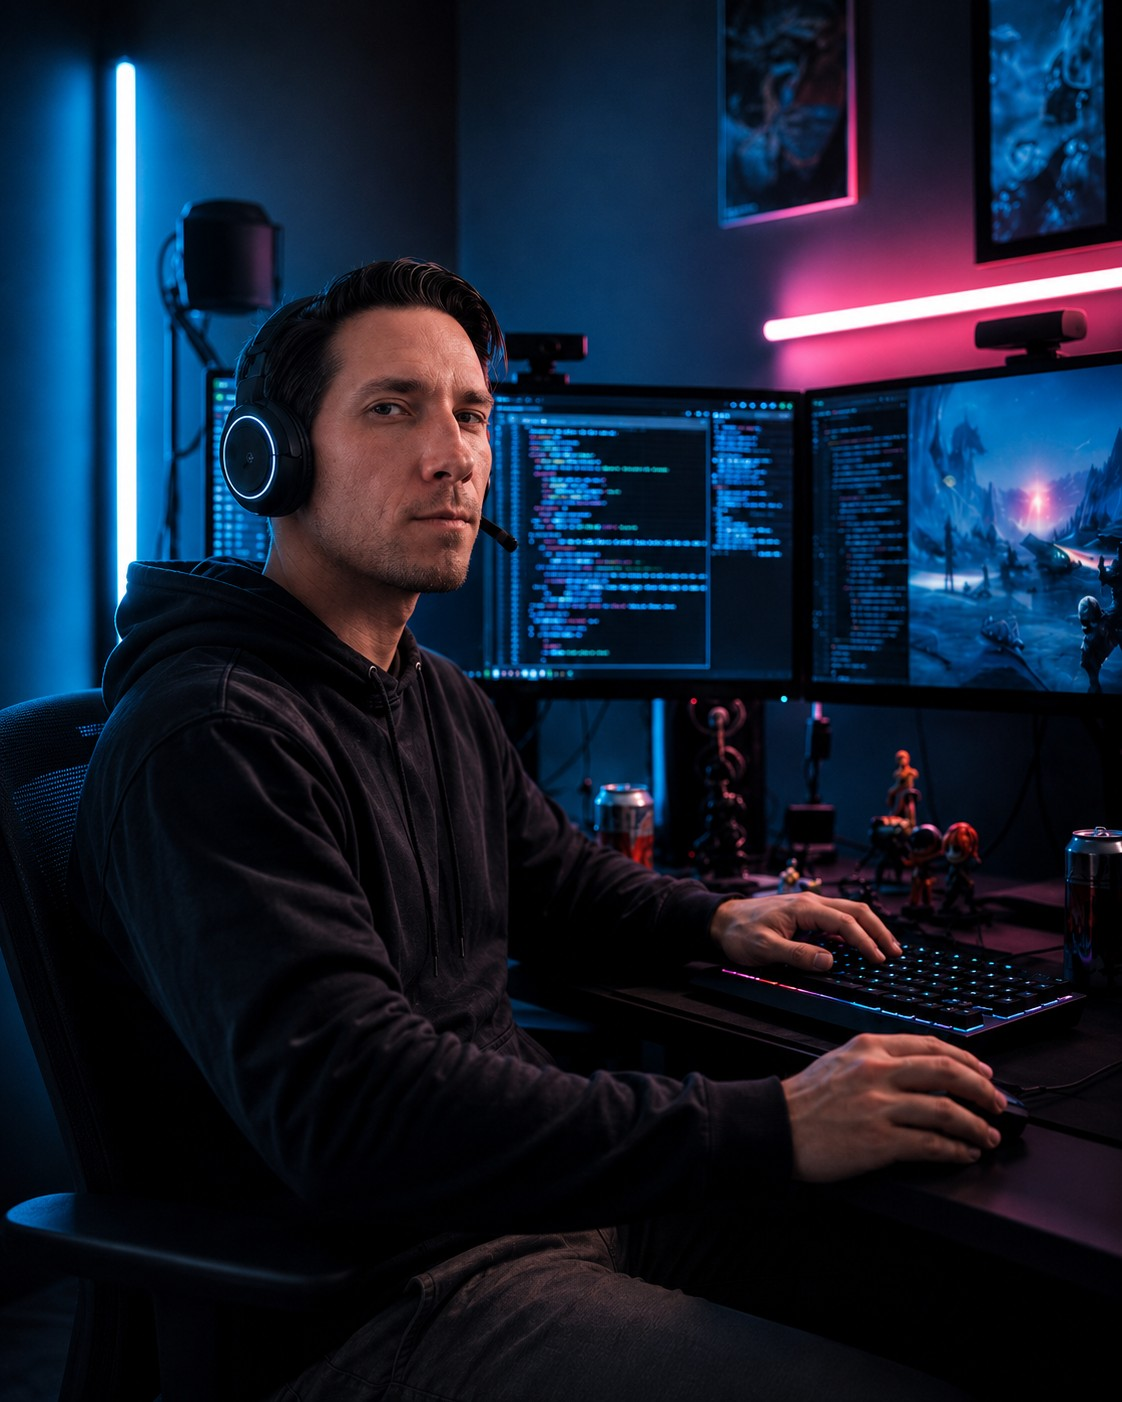
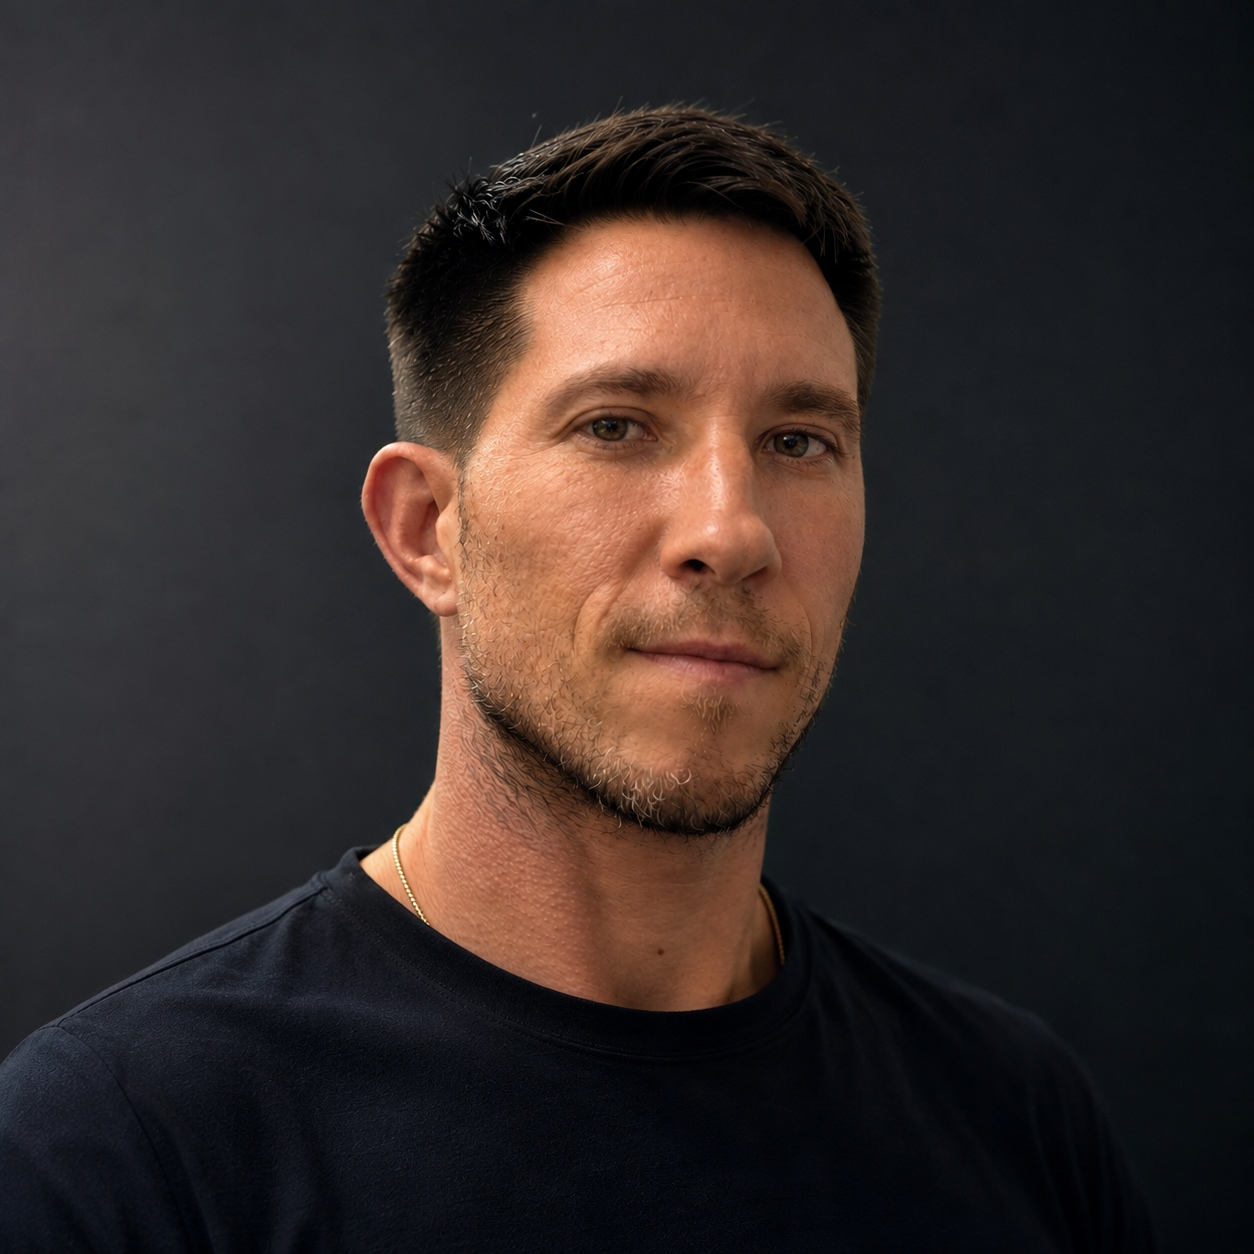
update portfolio images and copy

diff --git a/src/data/projects.ts b/src/data/projects.ts
@@ -21,6 +21,7 @@ export interface ProjectCaseStudy {
   uxNotes: string[];
   details: string[];
   outcome: string;
+  futureAiDirection?: string;
   nextSteps: string[];
   videoSlot?: {
     path: string;
@@ -96,14 +97,14 @@ export const projects: ProjectCaseStudy[] = [
     slug: 'fluent',
     id: 2,
     title: 'Fluent',
-    subtitle: 'Local Speech Recognition and Pronunciation Analysis',
+    subtitle: 'Local Whisper and Pronunciation Practice',
     shortDescription:
-      'An offline-first speech practice experience focused on fast microphone capture, clear pronunciation feedback, and privacy-friendly processing.',
+      'An offline-first speech practice experience built around local Whisper transcription, microphone capture, transcript-based pronunciation feedback, and privacy-first processing.',
     heroDescription:
-      'Fluent is the most UX-heavy of the three main projects. It focuses on local speech recognition, pronunciation analysis, and a practice flow that feels calm, fast, and trustworthy.',
+      'Fluent is the most UX-heavy of the three main projects. It uses local Whisper speech recognition and transcript-based practice analysis in a flow designed to feel calm, fast, and trustworthy.',
     summary:
-      'A private, offline speech-practice app that uses local Whisper transcription and honest scoring to coach pronunciation without cloud dependency.',
-    stack: ['Unity', 'Whisper', 'C#', 'ScriptableObjects', 'Scene-owned UI'],
+      'A privacy-first speech-practice app that runs Whisper transcription locally and does not require a cloud speech-recognition service.',
+    stack: ['Unity', 'Whisper', 'Local AI', 'C#', 'ScriptableObjects', 'Scene-owned UI'],
     accent: '#FF00A0',
     heroImage: '/images/case-studies/fluent/hero.jpg',
     gallery: [
@@ -112,27 +113,28 @@ export const projects: ProjectCaseStudy[] = [
       '/images/case-studies/fluent/gallery-2.jpg',
       '/images/case-studies/fluent/gallery-3.jpg',
       '/images/case-studies/fluent/gallery-4.jpg',
+      '/images/case-studies/fluent/gallery-5.jpg',
     ],
-    tags: ['Speech', 'UX', 'Local', 'Analysis'],
+    tags: ['Speech', 'Whisper', 'Local AI', 'Privacy'],
     quickFacts: [
-      { label: 'Focus', value: 'Local speech analysis loop' },
-      { label: 'System', value: 'Microphone capture and response states' },
-      { label: 'UX', value: 'Low-friction practice and clear cues' },
+      { label: 'Focus', value: 'Local transcription and pronunciation practice' },
+      { label: 'System', value: 'On-device Whisper with microphone capture' },
+      { label: 'Privacy', value: 'No required cloud speech dependency' },
     ],
     whatIDid: [
       'Built the offline speech-practice loop around local Whisper transcription.',
       'Separated presentation, domain, services, and content for maintainable iteration.',
-      'Designed the result flow to explain confidence, word match, and rhythm without overclaiming phoneme scoring.',
+      'Designed the result flow around honest transcript matching and practice feedback without claiming phoneme-level scoring.',
     ],
     challenge:
       'Speech tools fail quickly when users cannot tell whether the app is listening, analyzing, or waiting for another attempt.',
     approach:
-      'I would present the flow as a calm, state-driven practice loop with very clear visual transitions between recording, analyzing, and review.',
+      'I built the experience as a calm, state-driven practice loop with clear transitions between recording, local transcription, and review.',
     architecture: [
-      'Microphone capture needs stable states and predictable permission handling.',
-      'Local processing keeps privacy concerns low and makes the loop feel responsive.',
-      'Pronunciation analysis should surface actionable feedback, not just a score.',
-      'The interface should encourage repetition without feeling heavy or clinical.',
+      'Microphone capture uses explicit states and predictable permission handling.',
+      'Whisper transcription runs locally, keeping speech processing offline and private.',
+      'Practice analysis compares recognized speech with lesson content and surfaces understandable feedback.',
+      'Presentation, domain, services, and content remain separated for maintainable iteration.',
     ],
     uxNotes: [
       'Make the listening state obvious with one dominant visual cue.',
@@ -142,10 +144,12 @@ export const projects: ProjectCaseStudy[] = [
     details: [
       'This project benefits from a very strong state model because speech interaction is subtle by nature and users need reassurance.',
       'The design should reduce hesitation: the user should instantly know when the microphone is active and when analysis is complete.',
-      'Because the product is local-first, the privacy story is also a UX story; that should be visible in the copy and the structure of the page.',
+      'Because speech recognition runs locally, recordings do not need to be sent to a cloud transcription service. That privacy boundary is part of both the architecture and the user experience.',
     ],
     outcome:
-      'The case study becomes a clear demonstration of product thinking, state clarity, and a calm interface for a potentially repetitive workflow.',
+      'The current vertical slice demonstrates local AI integration, privacy-first speech processing, clear interaction states, and honest pronunciation-practice feedback.',
+    futureAiDirection:
+      'Fluent is designed as a foundation for deeper AI-powered language coaching. Planned directions include conversational practice, contextual feedback, adaptive exercises, AI-generated speaking scenarios, and a virtual speech coach. These are future capabilities, not features of the current build.',
     nextSteps: [
       'Add a simple state timeline for idle, recording, analyzing, and review.',
       'Show one screen dedicated to pronunciation feedback details.',

diff --git a/src/sections/HeroSection.tsx b/src/sections/HeroSection.tsx
@@ -63,7 +63,7 @@ export default function HeroSection() {
     >
       <div className="hero-kicker mb-6 inline-flex items-center gap-3 rounded-full border border-[var(--border-color)] bg-[var(--bg-secondary)]/70 px-4 py-2 text-xs uppercase tracking-[0.22em] text-[var(--text-secondary)] backdrop-blur-sm">
         <span className="h-2 w-2 rounded-full bg-[var(--neon-green)]" />
-        Unity Developer and Technical Owner
+        Unity Developer &amp; Tech Lead
       </div>
 
       <div className="hero-line text-center max-w-5xl">
@@ -78,8 +78,9 @@ export default function HeroSection() {
       <p className="hero-line mt-6 max-w-3xl text-center text-base sm:text-lg leading-relaxed text-[var(--text-secondary)]">
         I build production-minded Unity experiences with clear gameplay loops,
         modular architecture, and UX that helps players understand what to do
-        in the first 10 seconds. The work here is owned end to end: design,
-        implementation, polish, and presentation.
+        in the first 10 seconds, including multiplayer and AI-powered interactive
+        experiences. The work here is owned end to end: design, implementation,
+        polish, and presentation.
       </p>
 
       <div className="hero-line mt-8 flex flex-wrap justify-center gap-3">

diff --git a/src/pages/ProjectCaseStudyPage.tsx b/src/pages/ProjectCaseStudyPage.tsx
@@ -221,6 +221,17 @@ export default function ProjectCaseStudyPage() {
               </div>
             </div>
 
+            {project.futureAiDirection ? (
+              <div className="case-panel rounded-[24px] border border-[var(--border-color)] bg-[var(--bg-secondary)]/55 p-6">
+                <h2 className="text-lg font-bold uppercase tracking-[0.14em] text-[var(--text-primary)]" style={{ fontFamily: "'Orbitron', sans-serif" }}>
+                  Future AI direction
+                </h2>
+                <p className="mt-4 text-sm leading-relaxed text-[var(--text-secondary)] sm:text-base">
+                  {project.futureAiDirection}
+                </p>
+              </div>
+            ) : null}
+
             <div className="case-panel rounded-[24px] border border-[var(--border-color)] bg-[var(--bg-secondary)]/55 p-6">
               <h2 className="text-lg font-bold uppercase tracking-[0.14em] text-[var(--text-primary)]" style={{ fontFamily: "'Orbitron', sans-serif" }}>
                 What I did

diff --git a/src/sections/AboutSection.tsx b/src/sections/AboutSection.tsx
@@ -97,6 +97,14 @@ export default function AboutSection() {
             I am aiming for in every case study on this site.
           </p>
 
+          <p className="about-copy mt-4 max-w-3xl text-base leading-relaxed text-[var(--text-secondary)] sm:text-lg">
+            I use Codex and modern AI-assisted development tools for prototyping,
+            debugging, architecture exploration, and implementation support while
+            retaining control of the technical decisions. I also integrate AI capabilities
+            into products where they fit, including local speech recognition and
+            intelligent interactive systems.
+          </p>
+
           <div className="about-copy mt-8 grid gap-4 sm:grid-cols-3">
             {highlights.map((item) => {
               const Icon = item.icon;

diff --git a/src/sections/SkillsSection.tsx b/src/sections/SkillsSection.tsx
@@ -14,6 +14,11 @@ const techStack = [
   'ScriptableObjects',
   'SOLID',
   'Event-driven architecture',
+  'AI Integration',
+  'AI-Assisted Development',
+  'Codex',
+  'Whisper',
+  'Local AI',
   'Git',
   'Figma',
   'Photoshop',
